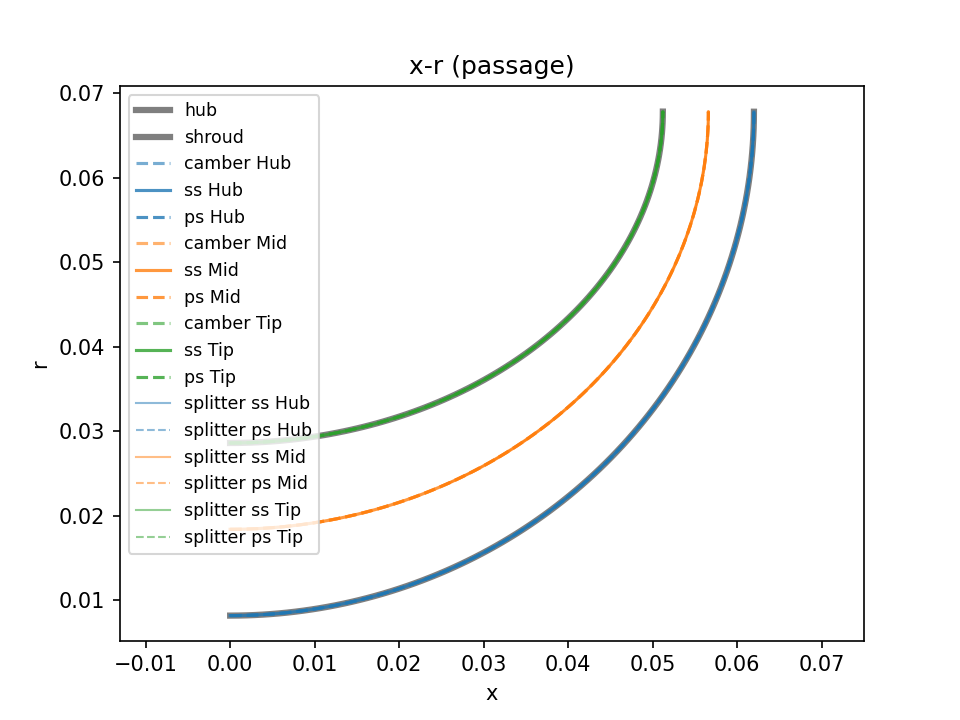
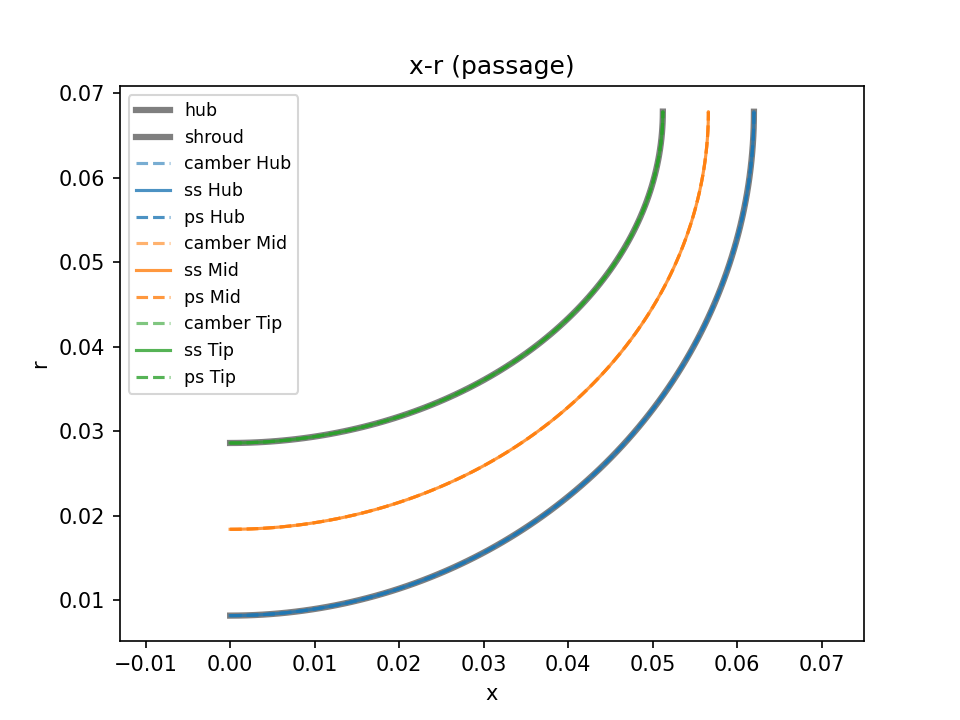
Merge pull request #35 from nasa/centrif-updates
updates

Pull request: updates
added ray camber intersection  for centrifs

diff --git a/pyturbo/aero/centrif.py b/pyturbo/aero/centrif.py
@@ -59,13 +59,14 @@ class CentrifProfile:
     ps_thickness:List[float]
 
     wrap_angle:float                        # angle of wrap/theta
-    wrap_displacements:List[float]          # percent of wrap_angle
-    wrap_displacement_locs:List[float]      # percent chord
-    
+
     trailing_edge_properties:TrailingEdgeProperties
+    wrap_displacements:List[float] = None   # percent of wrap_angle
+    wrap_displacement_locs:List[float] = None  # percent chord
     thickness_start:float=0.01
     thickness_end:float=0.95
     camber_follow_density:int = 20           # 0: use sparse control points. N>0: densify with N intermediate points for better camber following
+    use_ray_camber:bool = None               # None: use Centrif-level setting. True/False: override per profile
     
 @dataclass
 class CentrifProfileDebug:
@@ -478,7 +479,7 @@ class Centrif:
         dth = np.diff(xrth[:,2])
         return np.sum(np.sqrt(dr**2+xrth[:,1]**2 * dth**2 + dx**2))
  
-    def __build_camber__(self,profile:CentrifProfile,theta_wrap:float=None,use_ray_intersection:bool=False) -> Tuple[bezier,float]:
+    def __build_camber__(self,profile:CentrifProfile,theta_wrap:float |None = None,use_ray_intersection:bool=False) -> Tuple[bezier,float]:
         """Builds the camber for a profile
 
         Args:
@@ -496,7 +497,9 @@ class Centrif:
         xr = self.__get_rx_slice__(profile_loc,np.linspace(self.blade_position[0],self.blade_position[1],self.npts_chord))
         mp = xr_to_mprime(xr)[0]
         camb_len = mp[-1]
-        n_wrap_displacements = np.count_nonzero(profile.wrap_displacement_locs)
+        wrap_disps = profile.wrap_displacements or []
+        wrap_locs = profile.wrap_displacement_locs or []
+        n_wrap_displacements = np.count_nonzero(wrap_locs)
         camber_bezier_mp_th = np.zeros(shape=(4+n_wrap_displacements,2)) # Bezier Control points in the mp,theta plane
 
         # LE Metal Angle dth
@@ -519,7 +522,7 @@ class Centrif:
             camber_bezier_mp_th[-1,:] = [camb_len, dth_wrap]
             return bezier(camber_bezier_mp_th[:,0], camber_bezier_mp_th[:,1]),dth_wrap
         else:
-            camber_bezier_mp_th = np.zeros(shape=(4+len(profile.wrap_displacements),2)) # Bezier Control points in the t,theta plane
+            camber_bezier_mp_th = np.zeros(shape=(4+len(wrap_disps),2)) # Bezier Control points in the t,theta plane
             camber_bezier_mp_th[0,:] = [0, 0]
             camber_bezier_mp_th[1,:] = [profile.LE_Metal_Angle_Loc*camb_len, dth_LE]
             camber_bezier_mp_th[-2,:] = [profile.TE_Metal_Angle_Loc*camb_len, dth_TE]
@@ -534,7 +537,7 @@ class Centrif:
             # camb_len = np.sqrt(xr0[1]**2+xr1[1]**2 -2*xr0[1]*xr1[1]*np.cos(np.radians(profile.wrap_angle)) + (xr1[0]-xr0[0])**2)
             j = 2
             dl = profile.TE_Metal_Angle_Loc - profile.LE_Metal_Angle_Loc
-            for loc,displacement in zip(profile.wrap_displacement_locs, profile.wrap_displacements):
+            for loc,displacement in zip(wrap_locs, wrap_disps):
                 l = profile.LE_Metal_Angle_Loc + loc*dl
                 nx,ny = camber_bezier.get_point_dt(l)
                 x1,y1 = camber_bezier.get_point(l)
@@ -1028,13 +1031,16 @@ class Centrif:
         self.profiles_debug = list() 
         self.splitter_debug = list()
         
+        def _ray_flag(profile:CentrifProfile) -> bool:
+            return profile.use_ray_camber if profile.use_ray_camber is not None else self.use_ray_camber
+
         if self.use_mid_wrap_angle:
-            _,theta_wrap = self.__build_camber__(self.profiles[1],theta_wrap=None,use_ray_intersection=self.use_ray_camber) # use wrap angle from mid profile
+            _,theta_wrap = self.__build_camber__(self.profiles[1],theta_wrap=None,use_ray_intersection=_ray_flag(self.profiles[1])) # use wrap angle from mid profile
         else:
             theta_wrap = None
-            
+
         for i,profile in enumerate(self.profiles):
-            self.camber_mp_th.append(self.__build_camber__(profile,theta_wrap,use_ray_intersection=self.use_ray_camber)[0])
+            self.camber_mp_th.append(self.__build_camber__(profile,theta_wrap,use_ray_intersection=_ray_flag(profile))[0])
             self.apply_camber_shifts(self.le_theta_shifts,self.te_theta_shifts)
             self.profiles_debug.append(self.__apply_thickness__(profile,i,camber_start=0,npts_chord=npts_chord))  # Creates the flattened profiles
         if self.splitter_start != 0 and len(self.splitter_profiles)>0:
@@ -1075,51 +1081,23 @@ class Centrif:
             self.blades[i].build(self.blades[i].npts_span,self.blades[i].npts_chord)
             self.blades[i].rotate(self.blades[i].rotation_angle+pattern.rotation_ajustment) # Rotate the blade 
             
-    def plot_camber(self,plot_hub_shroud:bool=True):
-        """Plot the camber line
+    def plot_camber(self):
+        """Plot the camber lines (mp-theta) for all profiles on a single figure.
         """
-        
+        span_labels = {0: 'Hub', 1: 'Mid', 2: 'Tip'}
         t = self.t_camber
-        for i,b in enumerate(self.camber_mp_th):
-            fig = plt.figure(num=1,dpi=150,clear=True)
-            [x,y] = b.get_point(t)        
-            plt.plot(x, y,'-b',label=f"curve {i}")
-            plt.plot(b.x, b.y,'or',label=f"curve {i}")
-            plt.xlabel('mprime')
-            plt.ylabel('theta')
-            plt.title(f'Profile {i}')
-            plt.axis('equal')
-            plt.savefig(f'profile camber {i:2d}')
-
-        fig = plt.figure(num=2,dpi=150,clear=True)
-        ax = fig.add_subplot(111, projection='3d')
-        # Plots the camber and control points 
-        k = 0
-        for camber,profile in zip(self.camber_mp_th,self.profiles):
-            xc = np.zeros(shape=(len(camber.x),1))      # Bezier control points x,r,th
-            rc = np.zeros(shape=(len(camber.x),1))
-            thc = np.zeros(shape=(len(camber.x),1))     # theta control points
-            mpc = np.zeros(shape=(len(camber.x),1))     # mprime control points
-            
-            for i in range(len(camber.x)):              # Camber x is really mprime
-                t = camber.x[i]/camber.x[-1]            # Percent along mprime
-                xc[i],rc[i] = self.__get_camber_xr_point__(profile.percent_span,t)
-                mpc[i],thc[i] = camber.get_point(t)
-            
-            ax.plot3D(xc[1:-1],thc[1:-1],rc[1:-1],'or',markersize=4)
-            ax.plot3D(xc[0],thc[0],rc[0],'ok',markersize=4)
-            ax.plot3D(xc[-1],thc[-1],rc[-1],'ok',markersize=4)
-            
-            xrth = self.get_camber_points(k,self.t_hub,self.t_camber)
-            ax.plot3D(xrth[:,0],xrth[:,2],xrth[:,1],'-b',linewidth=2)   # x, theta, r
-            k+=1
-        # Plots the hub and shroud 
-        if plot_hub_shroud:
-            ax.plot3D(self.hub_pts_cyl[0,:,0],self.hub_pts_cyl[0,:,2],self.hub_pts_cyl[0,:,1],'k',linewidth=2.5)
-            ax.plot3D(self.shroud_pts_cyl[0,:,0],self.shroud_pts_cyl[0,:,2],self.shroud_pts_cyl[0,:,1],'k',linewidth=2.5)
-        ax.view_init(68,-174)
-        plt.axis('equal')
-        # plt.show()
+        plt.figure(num=1, dpi=150, clear=True)
+        for i, b in enumerate(self.camber_mp_th):
+            [x, y] = b.get_point(t)
+            lbl = span_labels.get(i, f'Profile {i}')
+            plt.plot(x, y, '-', linewidth=1.5, label=f'camber {lbl}')
+            plt.plot(b.x, b.y, 'o', markerfacecolor='none', markersize=4, label=f'ctrl pts {lbl}')
+        plt.xlabel('mprime')
+        plt.ylabel('theta')
+        plt.title('Camber Lines')
+        plt.legend(fontsize='small', loc='best')
+        plt.savefig('camber.png', dpi=150)
+        plt.show()
     
     def plot_profile_debug_3D(self,nblades:int=1,total_blades:int=1):
         fig = plt.figure(num=2,clear=True,dpi=150)

diff --git a/tutorials/radial_compressor.py b/tutorials/radial_compressor.py
@@ -109,46 +109,46 @@ if __name__ == '__main__':
 
     hub = CentrifProfile(percent_span=0, LE_Thickness=0.05,
                          trailing_edge_properties=te_props,
-                         LE_Metal_Angle=-50, TE_Metal_Angle=-30,
+                         LE_Metal_Angle=0, TE_Metal_Angle=-30,
                          LE_Metal_Angle_Loc=0.1, TE_Metal_Angle_Loc=0.9,
                          ss_thickness=[0.05, 0.05, 0.05, 0.05, 0.05],
                          ps_thickness=[0.05, 0.05, 0.05, 0.05, 0.05],
-                         wrap_angle=-25,
-                         wrap_displacements=[0.5, 0.5, 0.5, 0.5],
-                         wrap_displacement_locs=[0.3, 0.4, 0.5, 0.7])
+                         wrap_angle=-25, use_ray_camber=True)
+                        #  wrap_displacements=[0.5, 0.5, 0.5, 0.5],
+                        #  wrap_displacement_locs=[0.3, 0.4, 0.5, 0.7])
 
     te_props = TrailingEdgeProperties(TE_Cut=TE_Cut, TE_Radius=0.05)
 
     mid = CentrifProfile(percent_span=0.5, LE_Thickness=0.03,
                          trailing_edge_properties=te_props,
-                         LE_Metal_Angle=-50, TE_Metal_Angle=-30,
+                         LE_Metal_Angle=0, TE_Metal_Angle=-30,
                          LE_Metal_Angle_Loc=0.1, TE_Metal_Angle_Loc=0.9,
                          ss_thickness=[0.05, 0.05, 0.05, 0.05, 0.05],
                          ps_thickness=[0.05, 0.05, 0.05, 0.05, 0.05],
-                         wrap_angle=-25,
-                         wrap_displacements=[0.5, 0.5, 0.5, 0.5],
-                         wrap_displacement_locs=[0.3, 0.4, 0.5, 0.7])
+                         wrap_angle=-25, use_ray_camber=True)
+                        #  wrap_displacements=[0.5, 0.5, 0.5, 0.5],
+                        #  wrap_displacement_locs=[0.3, 0.4, 0.5, 0.7])
 
     tip = CentrifProfile(percent_span=1, LE_Thickness=0.03,
                          trailing_edge_properties=te_props,
-                         LE_Metal_Angle=-50, TE_Metal_Angle=-30,
+                         LE_Metal_Angle=0, TE_Metal_Angle=-30,
                          LE_Metal_Angle_Loc=0.1, TE_Metal_Angle_Loc=0.9,
                          ss_thickness=[0.05, 0.05, 0.05, 0.05],
                          ps_thickness=[0.05, 0.05, 0.05, 0.05],
-                         wrap_angle=-25,
-                         wrap_displacements=[0.5, 0.5, 0.5, 0.5],
-                         wrap_displacement_locs=[0.3, 0.4, 0.5, 0.7])
+                         wrap_angle=-25, use_ray_camber=True)
+                        #  wrap_displacements=[0.5, 0.5, 0.5, 0.5],
+                        #  wrap_displacement_locs=[0.3, 0.4, 0.5, 0.7])
 
     cen.add_profile(hub)
     cen.add_profile(mid)
     cen.add_profile(tip)
-    cen.add_splitter([hub, mid, tip], splitter_start=0.5)
+    # cen.add_splitter([hub, mid, tip], splitter_start=0.5)
 
-    cen.build(npts_span=20, npts_chord=100, nblades=nblades)
+    cen.build(npts_span=10, npts_chord=100, nblades=nblades)
 
     # --- Plots ---
     # cen.plot_camber()
-    cen.plot_mp_profile()
+    # cen.plot_mp_profile()
     # cen.plot()
     cen.plot_fullwheel()
 

diff --git a/setup.py b/setup.py
@@ -3,7 +3,7 @@ from setuptools import setup
 
 _config = {
     "name": "pyturbo-aero",
-    "version":"1.3.0",
+    "version":"1.3.1",
     "url": "https://gitlab.grc.nasa.gov/lte-turbo/pyturbo",
     "author": "Paht Juangphanich",
     "author_email": "[email redacted]",

diff --git a/tests/test_centrif_compressor.py b/tests/test_centrif_compressor.py
@@ -136,7 +136,7 @@ cen.add_profile(tip)
 cen.build(npts_span=10, npts_chord=100,nblades=nblades)
 # s_c_b2b,_ = cen.pitch_to_chord()
 # cen.plot_camber()
-cen.plot_mp_profile()
+# cen.plot_mp_profile()
 # cen.plot()
 cen.plot_fullwheel()
 print('check')